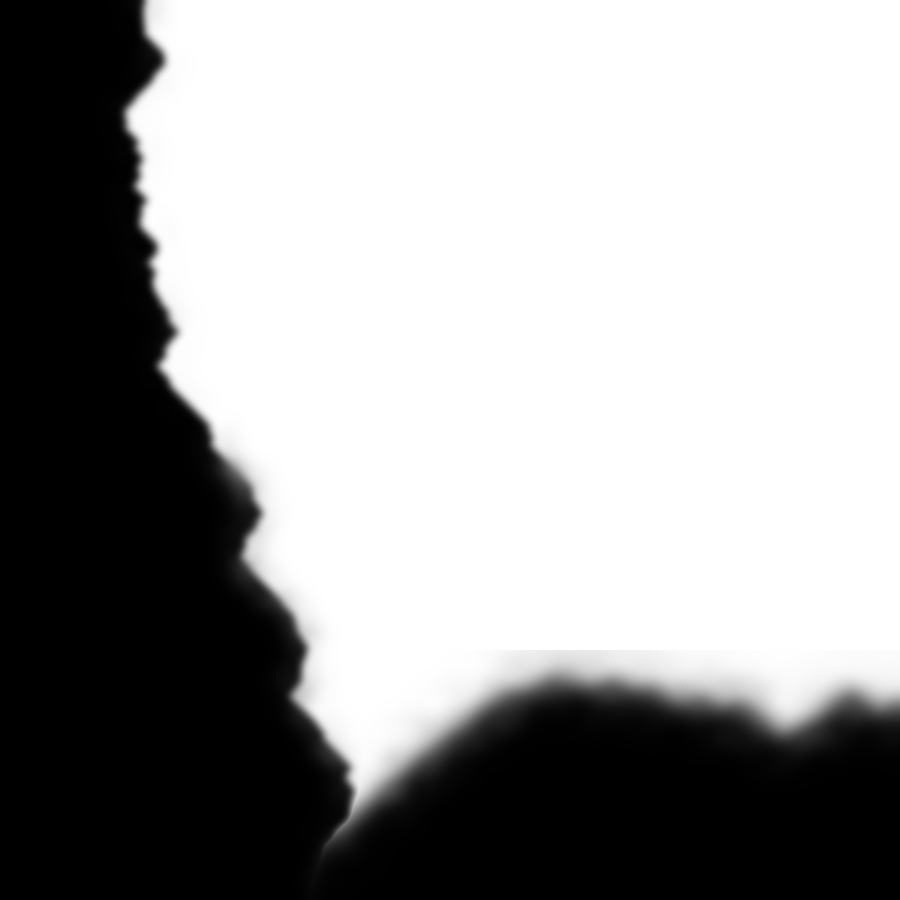
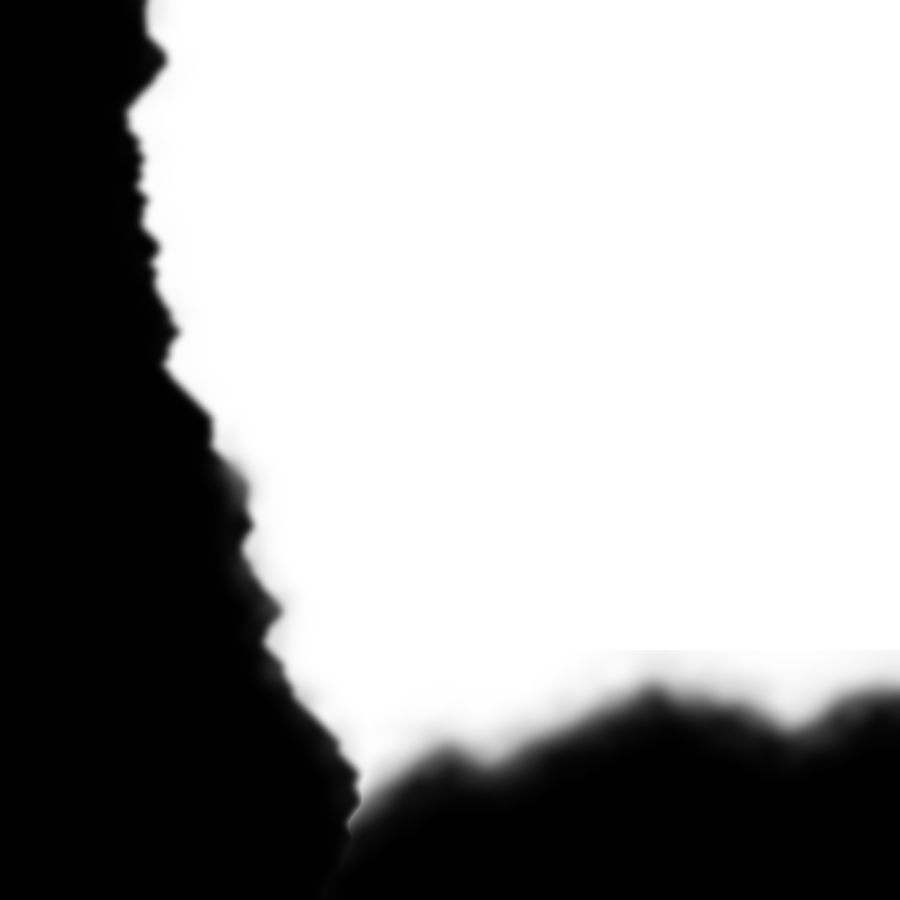
新しい地図：港の駅前を観光地らしく描き直した m8 の絵に入れかえ（前の絵は v1 に残す）

diff --git a/docs/HANDOFF.md b/docs/HANDOFF.md
@@ -796,3 +796,4 @@
 - 同じ日・追記（ユーザーの頼み：線路は少しカーブをつけて、絵の線路予定地に）：`tools/map-track.py` → `docs/map-tiles/track.json`（`main`・`branch` の折れ線と駅の位置、マス）・`track-check.jpg`。絵の中の砂利と草の帯（本線＝帯の色と、なめらかさ／支線の山の中＝まわりより明るい細い道で、白い山道はさける）を、下絵の線から本線±30マス・支線±35マスの中で動的計画法でなぞり、ならす。本線の駅の x はキロ×100 のまま（y だけ動く：大学前 721.6・緑ヶ丘 725.6 など、ほかは 700 前後）。駅の前後 ±18マスはまっすぐ。支線の駅は、なぞった線の上のいちばん近い点。帯が見つからない所は下絵の線に引きもどす（今は本線98%・支線100%で帯が見つかった）。温泉支線は川辺の駅の中心から東へ40マス（400m）の所で本線から分かれる（ユーザーの頼み）。確かめるページの「線路と駅」は、この形（太い線）と下絵のまっすぐな線（点線）を出す。ゲームの線路はまだ変えていない（段3でこの形を使う案）。headless で絵を見ただけ。
 - 同じ日・追記：ユーザーがページの「全部消す」を押してしまったので、保存の場所（db `fixes/pins`）を、反映ずみの159本（docs/map-tiles/fixes.json と同じ）に戻した。消したあと、反映後に足したピンがあったとしても、それは戻せていない。ページは「全部消す」のあとでも「元に戻す」で全部戻せるようにした。
 - 同じ日・追記（ユーザーの頼み：森下〜峠にトンネル。沢をわたる橋の所だけ外に出る）：`tools/map-track.py` の TUNNELS。森下→峠の道のりの27%〜82%をトンネルにし、絵の水の色から沢を見つけて（44%の所）、そこだけ外に出す（前後60mずつ。橋は60m）。`track.json` に `tunnels`（森下トンネル s 343.8〜378.3・峠トンネル 390.3〜475.9）と `bridges`（森下沢橋梁 381.3〜387.3）を足した（s＝川辺から支線の道のり、マス）。名前は架空。絵は描き直していない（トンネルの所は森なので、そのまま合う）。確かめるページは、トンネルを点線と入口の印、橋を両側の線で出す。キロ（bkm）・ダイヤは変えていない。headless で見ただけ。
+- 同じ日・追記（ユーザー）：港の駅前を観光地らしく（商店街のアーチ・赤レンガ倉庫・朝市の屋根・海べりの公園とあずまや・桟橋・灯台の島）描き直した m8 の絵が届いた。前の絵は `art/m8-minato-art-v1.png` に残し、新しい絵を `art/m8-minato-art.png` にしてつなぎ直し、線路もなぞり直した（港の駅 y 700→706.8）。ChatGPT が絵全体を少し描き直したので、新田から港の北へ上がる白い道は m8 の側で消えた（つなぎ目では目立たない）。m8 の手直しピン3本は北の森の所なのでそのまま。
